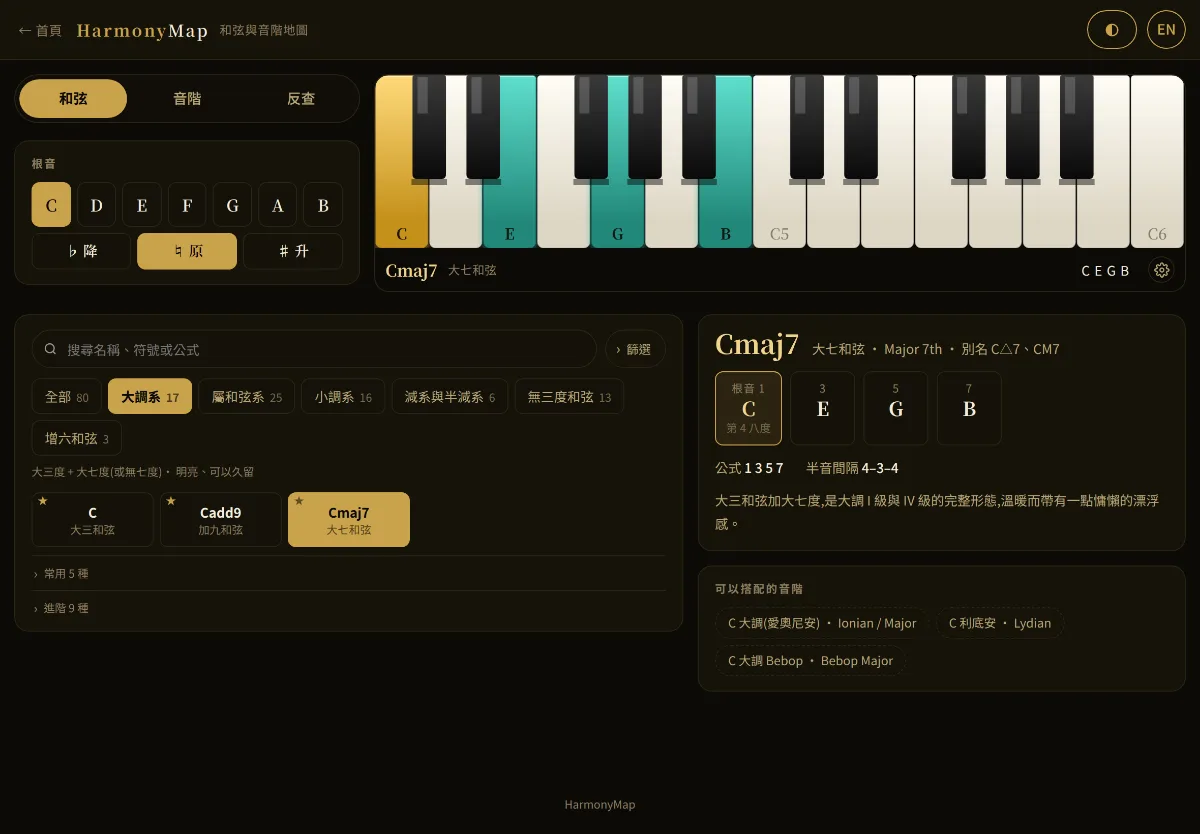
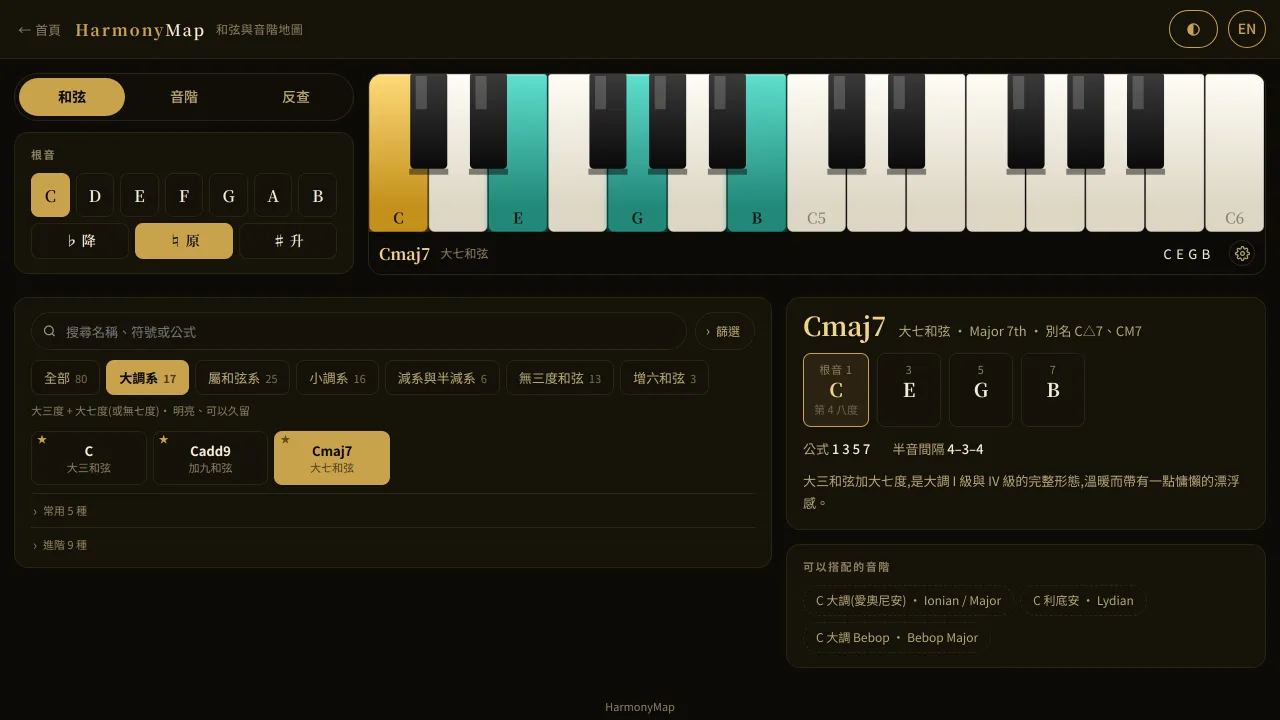
Reshoot every screenshot at 16:9, add portrait ones for phones
Four changes to how the tool shots are made and shown.

**One aspect ratio.** The app shots were 59:41 and the export frame 16:9, so
the hero had to letterbox its image inside a 59:41 box. Everything is 16:9
now -- app shots reshot at 1280x720 (LoudMaster at 1120x630, where its fixed
680px panel needs the narrower frame to fill it) -- and the letterbox rule
is gone.

**The measure highlight is on.** ScrollScore ships with #measureHl off, so
the earlier export frame had no block under the playhead. It is enabled and
the playhead parked mid-bar-3, where the block frames it instead of sitting
against a barline. Title "範例", watermark "Steven Tsai".

**Portrait shots on phones.** Below 900px the three small cards lay out as
image-beside-text, and a 16:9 shot squeezed into a 38%-wide column showed
nothing legible. Each now carries a <picture> whose source swaps in a 3:4
shot taken at a 480px viewport, so the card shows each tool's own narrow
layout. The language swap had to learn about <source>: setting only the
<img>'s src leaves the picked source untouched on mobile.

**Edges.** The shots are mostly dark on equally dark cards, so their
boundary was invisible. An inset ring in --line-bright draws it -- inset
rather than a border, which would change .thumb's box and disturb the flex
width maths.

The export frame carries no localised UI, only the user's own title and
watermark, so one file serves both languages instead of two.
[…]

diff --git a/index.html b/index.html
@@ -151,7 +151,7 @@ body{
 
 /* 首屏的產品畫面:ScrollScore 載入範例樂譜、播放中的實際畫面 */
 .hero-media{
-  border:1px solid var(--line);border-radius:var(--radius-lg);
+  border:1px solid var(--line-bright);border-radius:var(--radius-lg);
   background:linear-gradient(160deg, var(--panel-2), #14100A);
   overflow:hidden;box-shadow:var(--shadow-md);
 }
@@ -164,13 +164,10 @@ body{
   margin-left:8px;font-size:var(--fs-2xs);color:var(--muted);letter-spacing:.06em;
   overflow:hidden;text-overflow:ellipsis;white-space:nowrap;
 }
-/* height:auto 不能省——img 上的 height="834" 屬性會變成 height:834px 的樣式提示,
-   而 aspect-ratio 只有在 height 是 auto 時才拿來推算高度,不然整張圖會撐成 750px 高。
+/* height:auto 不能省——img 上的 height 屬性會變成同值的樣式提示,而 aspect-ratio
+   只有在 height 是 auto 時才拿來推算高度,不然整張圖會被撐成那個像素高度。
    width/height 屬性本身要留著,瀏覽器才能在圖載入前就保留正確的版位 */
-.hero-media .shot{display:block;width:100%;height:auto;aspect-ratio:59 / 41;object-fit:cover}
-/* 匯出畫格是 16:9 的影片畫面,不是 app 截圖。用 contain 讓它在框裡保持完整比例,
-   上下自然留出黑邊——那正是影片播放器該有的樣子,裁掉標題或浮水印反而不對 */
-.hero-media .shot--video{object-fit:contain;background:#0b0906}
+.hero-media .shot{display:block;width:100%;height:auto;aspect-ratio:16 / 9;object-fit:cover}
 
 /* ── 工具卡片網格 ───────────────────────── */
 .tools{margin-top:var(--section-gap)}
@@ -203,14 +200,16 @@ body{
   .card:hover .go svg{transform:translateX(4px)}
 }
 
-/* 預覽區:preview/ 底下每個工具各一組 zh/en 截圖,語言切換時由 applyLanguage 換 src */
+/* 預覽區:preview/ 底下每個工具各一組 zh/en 截圖,語言切換時由 applyLanguage 換 src。
+   16:9 —— 橫式截圖與 ScrollScore 的匯出畫格都是這個比例,整頁只有一種版位比例 */
 .thumb{
   position:relative;flex:none;
   background:linear-gradient(160deg, var(--panel-2), #14100A);
   border-bottom:1px solid var(--line);
-  /* 59:41 = 截圖來源的 1180x820(平板橫式)。版位比例跟來源一致,object-fit:cover
-     才不會裁掉工具的標題列或底部 */
-  aspect-ratio:59 / 41;overflow:hidden;
+  aspect-ratio:16 / 9;overflow:hidden;
+  /* 截圖幾乎都是深色,擺在同樣深色的卡片裡看不出邊界在哪。用 inset ring 把畫面
+     框出來,而不是加 border——border 會改變 .thumb 的尺寸,連帶影響 flex 寬度計算 */
+  box-shadow:inset 0 0 0 1px var(--line-bright);
 }
 .thumb svg,.thumb img{
   display:block;width:100%;height:100%;object-fit:cover;
@@ -259,10 +258,12 @@ body{
 .card:active .go svg{transform:translateX(3px)}
 
 /* 小卡改成左圖右文:四張全寬預覽圖疊起來,手機頁面會從 1.3 個螢幕長到 3.2 個 */
+/* 小卡在這個斷點改成左圖右文。橫式截圖塞進 38% 寬的欄位裡會小到看不出是什麼,
+   所以這裡換成直式截圖(<picture> 的 source 負責換檔,見 HTML),版位也跟著轉成 3:4 */
 @media(max-width:899px){
   .card--sm{flex-direction:row}
   .card--sm .thumb{
-    width:38%;aspect-ratio:auto;
+    width:38%;aspect-ratio:3 / 4;
     border-bottom:none;border-right:1px solid var(--line);
   }
 }
@@ -275,7 +276,7 @@ body{
   .card--sm .who{display:none}
   .card--sm h2{font-size:var(--fs-lg)}
   .card--sm .go{padding-top:14px}
-  .card--feature .thumb{aspect-ratio:59 / 41}
+  .card--feature .thumb{aspect-ratio:16 / 9}
   .card--feature .card-body{padding:18px}
   .card--feature .who{display:none}
 }
@@ -409,7 +410,7 @@ footer{
 
     <figure class="hero-media">
       <div class="chrome"><i></i><i></i><i></i><span data-i18n="heroShotCaption">ScrollScore 匯出的影片</span></div>
-      <img class="shot shot--video" data-shot="scrollscore-export" src="preview/scrollscore-export-zh.webp"
+      <img class="shot" src="preview/scrollscore-export.webp"
            width="1280" height="720" fetchpriority="high" decoding="async"
            data-i18n-attr="alt:altExport" alt="ScrollScore 匯出的 1920x1080 影片畫格：白底樂譜、播放游標、下方鋼琴鍵盤，上方是曲名、右下角是頻道浮水印">
     </figure>
@@ -423,7 +424,7 @@ footer{
 
     <a class="card card--feature" href="ScrollScore/">
       <div class="thumb">
-        <img data-shot="scrollscore" src="preview/scrollscore-zh.webp" width="1200" height="834"
+        <img data-shot="scrollscore" src="preview/scrollscore-zh.webp" width="1280" height="720"
              loading="lazy" decoding="async"
              data-i18n-attr="alt:altScrollScore" alt="ScrollScore 操作畫面：樂譜隨拍捲動，鋼琴鍵盤同步標示按下的音">
       </div>
@@ -450,9 +451,13 @@ footer{
 
     <a class="card card--sm" href="SightScore/">
       <div class="thumb">
-        <img data-shot="sightscore" src="preview/sightscore-zh.webp" width="1200" height="834"
+        <picture>
+          <!-- 手機把小卡排成左圖右文,橫式截圖擠在窄欄裡看不出是什麼,換成直式 -->
+          <source media="(max-width: 899px)" data-shot="sightscore-portrait" srcset="preview/sightscore-portrait-zh.webp" width="720" height="960">
+          <img data-shot="sightscore" src="preview/sightscore-zh.webp" width="1280" height="720"
              loading="lazy" decoding="async"
              data-i18n-attr="alt:altSightScore" alt="SightScore 操作畫面：依級數與調性生成的視奏練習譜">
+        </picture>
       </div>
       <div class="card-body">
         <div class="card-head">
@@ -472,9 +477,13 @@ footer{
 
     <a class="card card--sm" href="HarmonyMap/">
       <div class="thumb">
-        <img data-shot="harmonymap" src="preview/harmonymap-zh.webp" width="1200" height="834"
+        <picture>
+          <!-- 手機把小卡排成左圖右文,橫式截圖擠在窄欄裡看不出是什麼,換成直式 -->
+          <source media="(max-width: 899px)" data-shot="harmonymap-portrait" srcset="preview/harmonymap-portrait-zh.webp" width="720" height="960">
+          <img data-shot="harmonymap" src="preview/harmonymap-zh.webp" width="1280" height="720"
              loading="lazy" decoding="async"
              data-i18n-attr="alt:altHarmonyMap" alt="HarmonyMap 操作畫面：Cmaj7 的組成音標示在鍵盤上，旁邊列出和弦資訊與可搭配的音階">
+        </picture>
       </div>
       <div class="card-body">
         <div class="card-head">
@@ -494,9 +503,13 @@ footer{
 
     <a class="card card--sm" href="LoudNorm/">
       <div class="thumb">
-        <img data-shot="loudnorm" src="preview/loudnorm-zh.webp" width="1200" height="834"
+        <picture>
+          <!-- 手機把小卡排成左圖右文,橫式截圖擠在窄欄裡看不出是什麼,換成直式 -->
+          <source media="(max-width: 899px)" data-shot="loudnorm-portrait" srcset="preview/loudnorm-portrait-zh.webp" width="720" height="960">
+          <img data-shot="loudnorm" src="preview/loudnorm-zh.webp" width="1280" height="720"
              loading="lazy" decoding="async"
              data-i18n-attr="alt:altLoudNorm" alt="LoudMaster 操作畫面：響度從 -17.8 校正到 -14.3 LUFS 的前後對照">
+        </picture>
       </div>
       <div class="card-body">
         <div class="card-head">
@@ -699,7 +712,9 @@ function applyLanguage(lang) {
   // 截圖是四個工具的實際畫面,裡面的介面文字就是該語言的版本,所以要跟著整頁一起換,
   // 不然中文頁面會配到一張英文介面的圖
   document.querySelectorAll("[data-shot]").forEach(el => {
-    el.src = "preview/" + el.dataset.shot + "-" + lang + ".webp";
+    const url = "preview/" + el.dataset.shot + "-" + lang + ".webp";
+    // <picture> 裡的 <source> 吃 srcset,只改 <img> 的 src 在手機上不會生效
+    if (el.tagName === "SOURCE") el.srcset = url; else el.src = url;
   });
 
   const lt = document.getElementById("langToggle");
